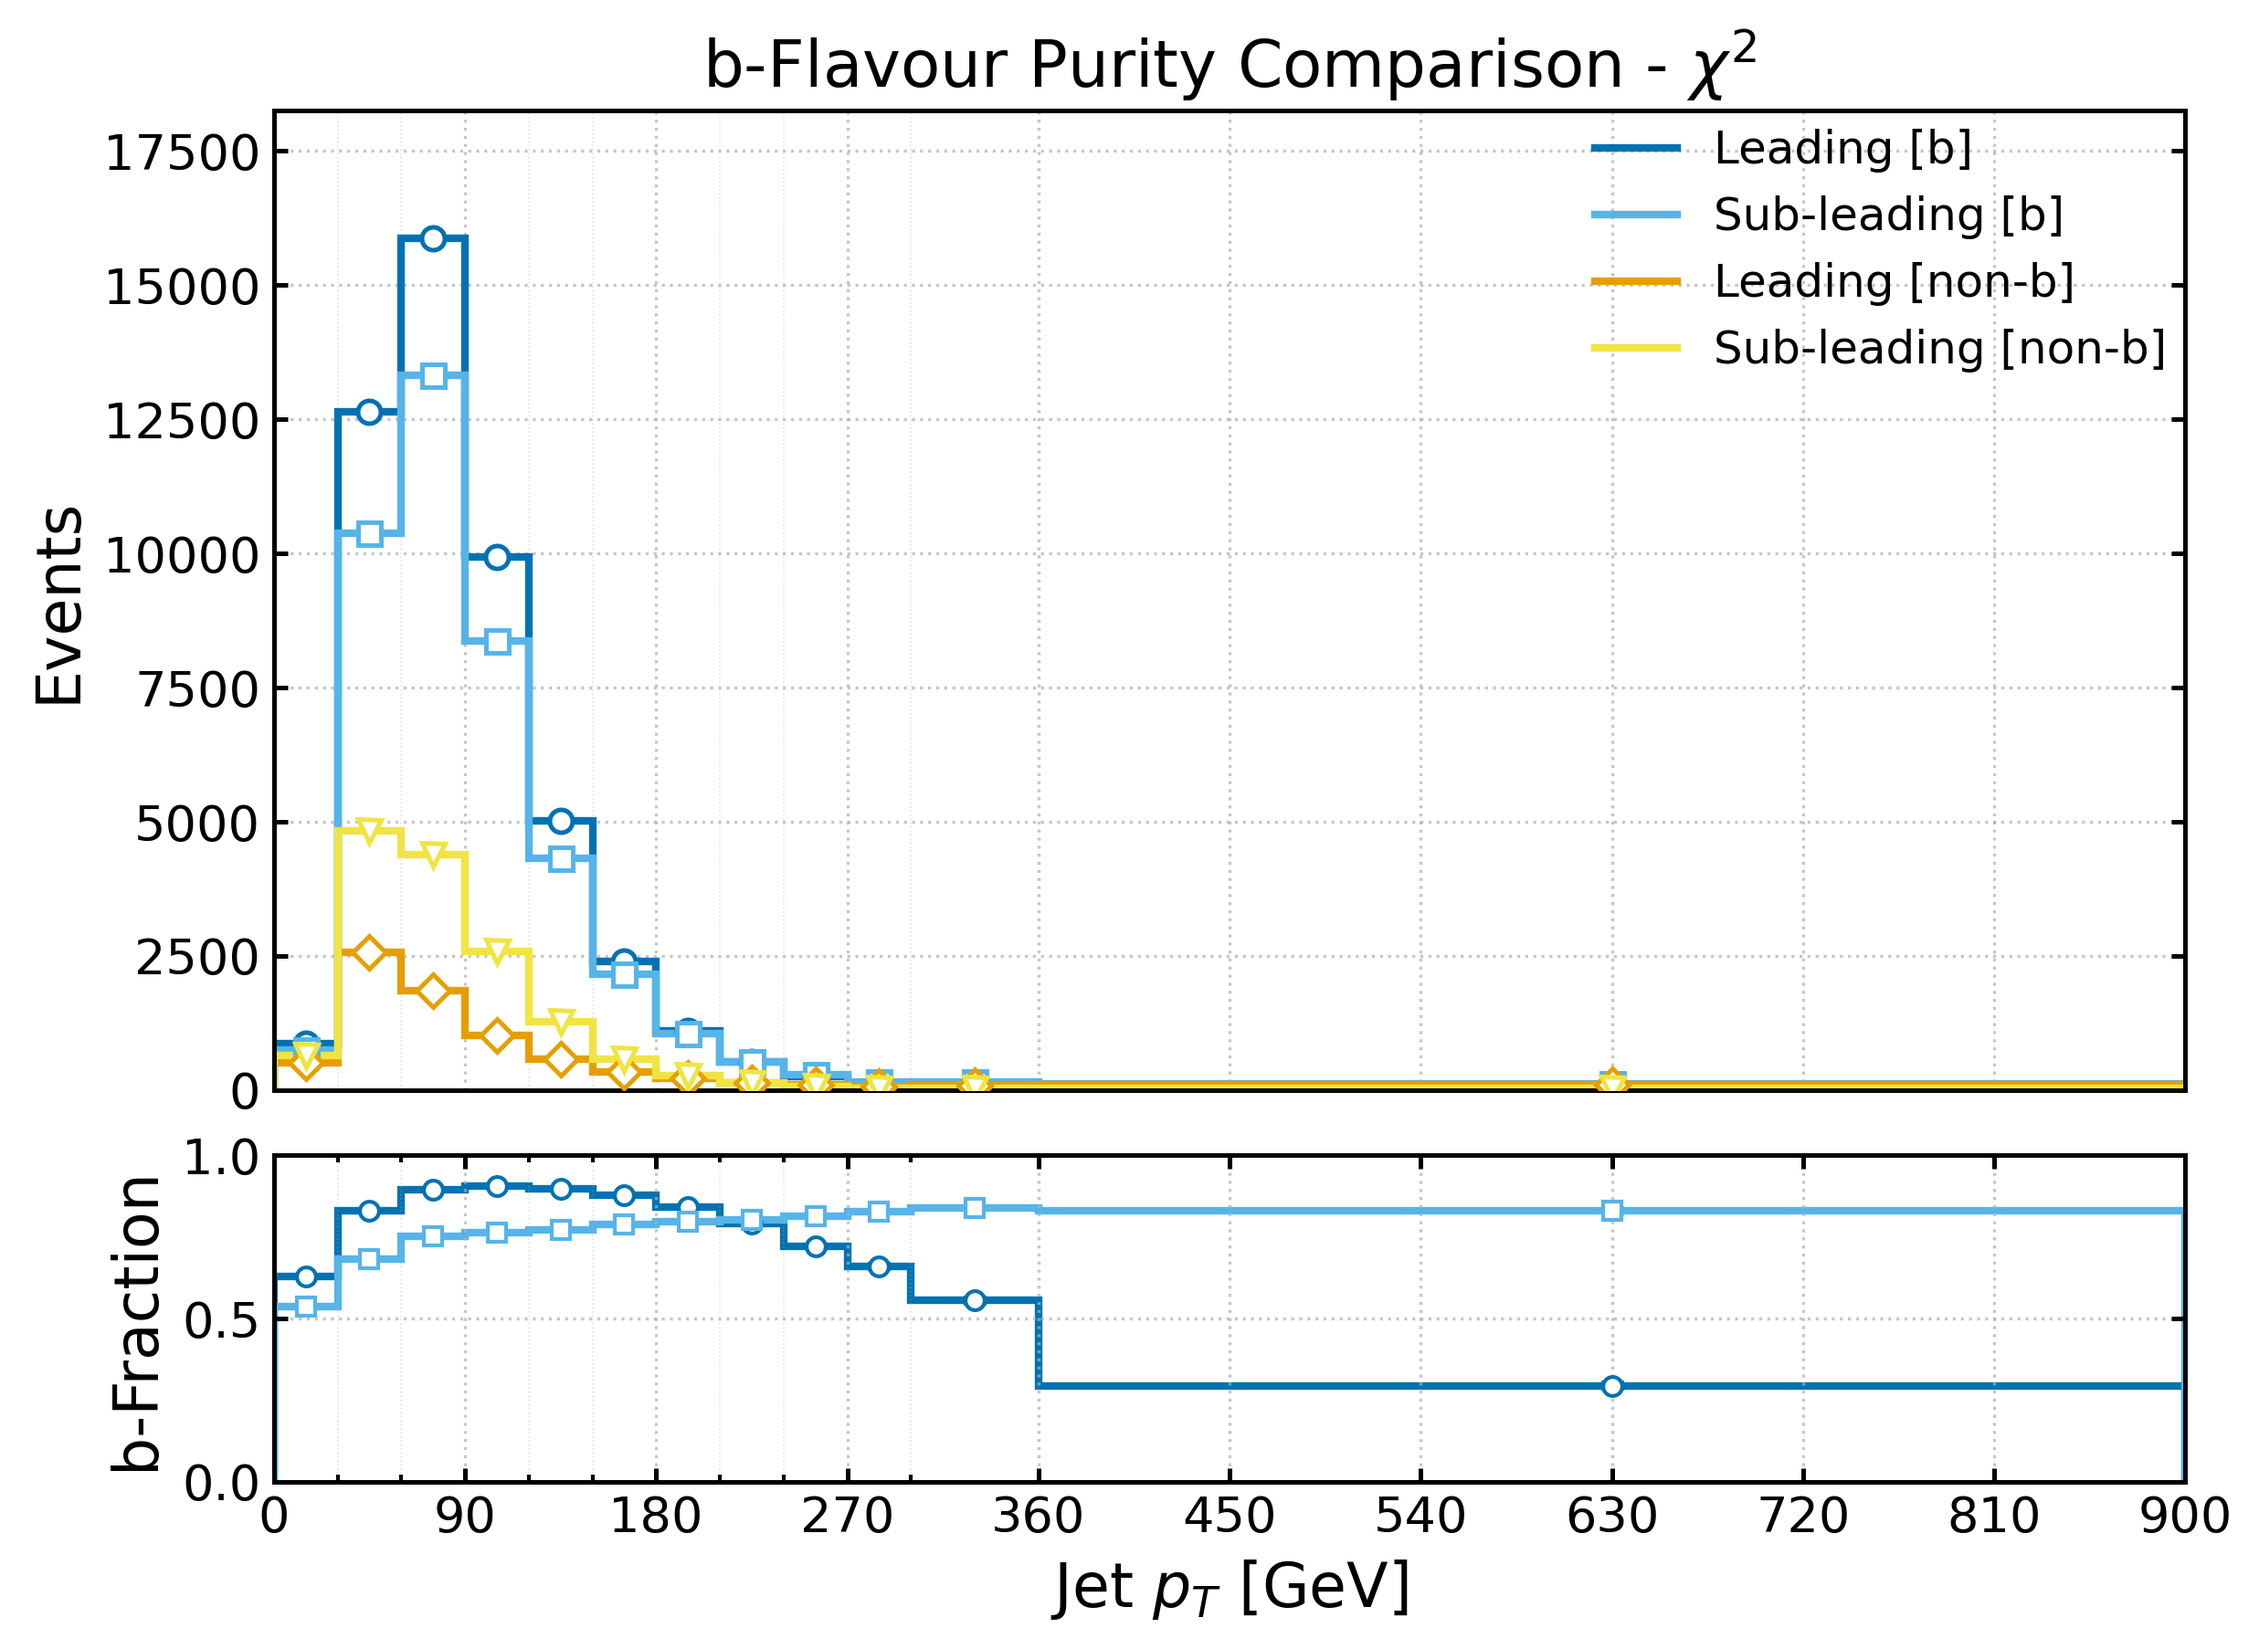
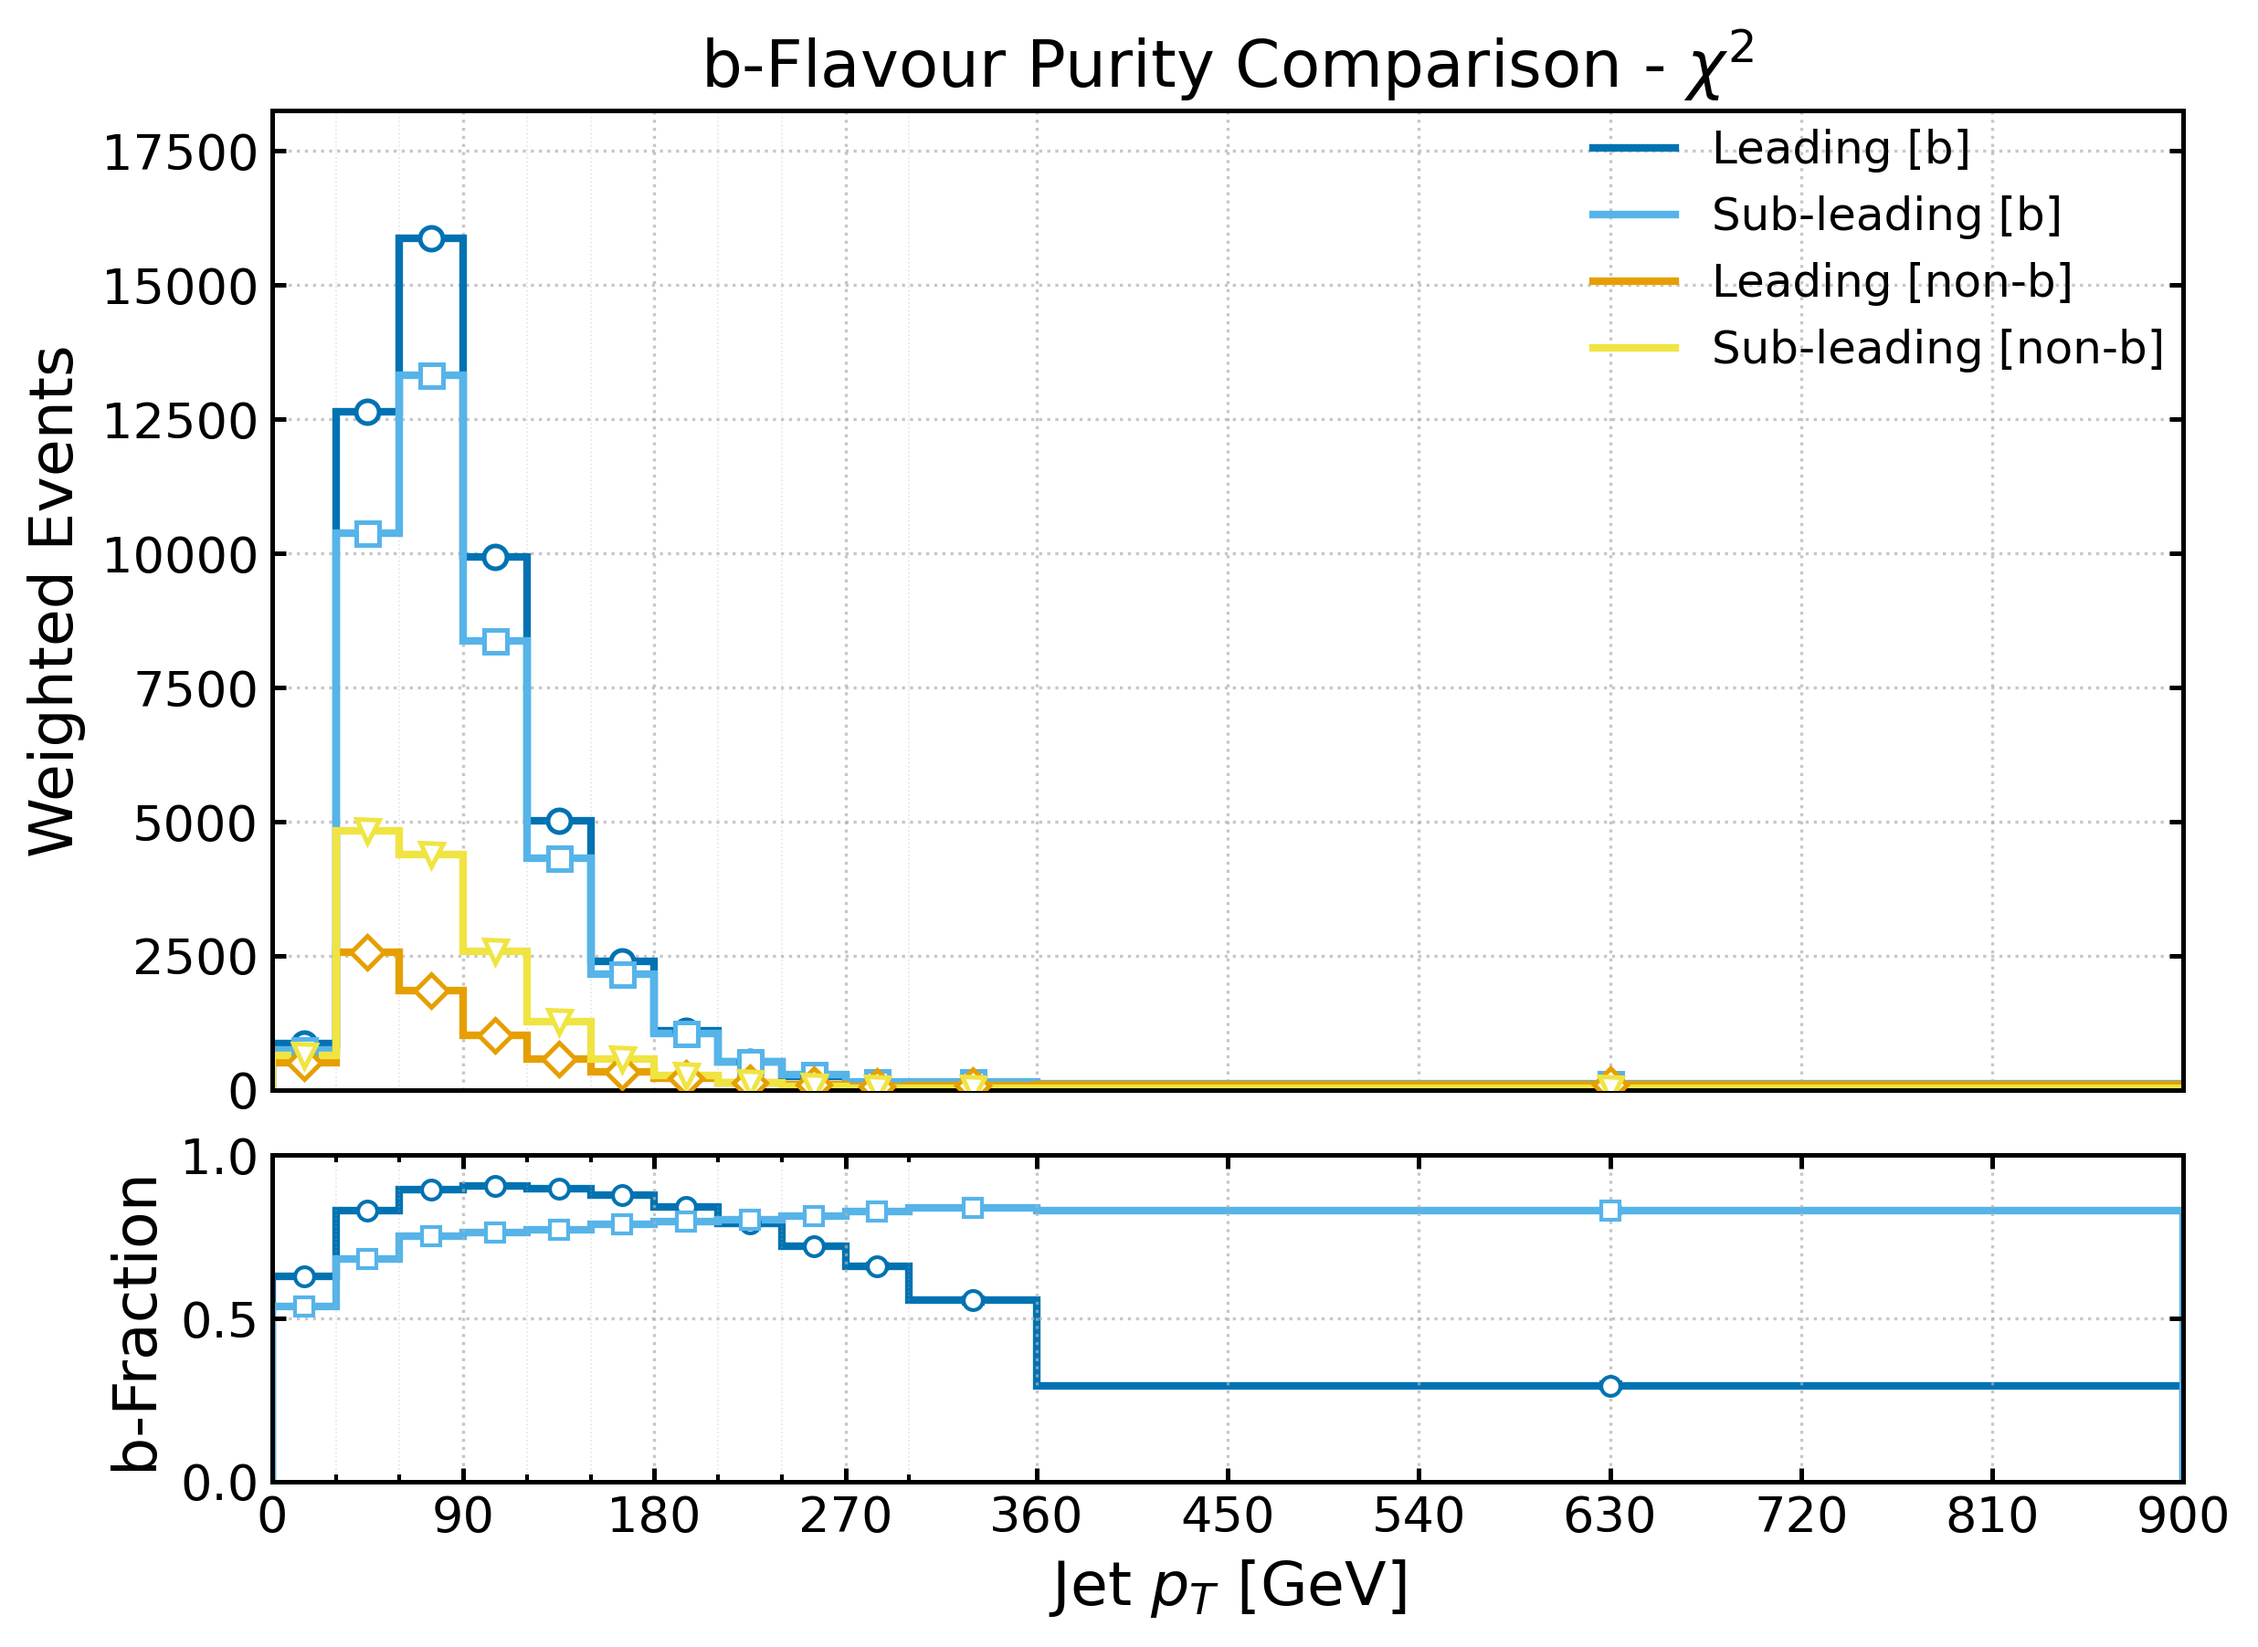
2.11.4 - Output format corrections

diff --git a/bTagging_SF_calc.py b/bTagging_SF_calc.py
@@ -1,0 +1,101 @@
+import numpy as np
+from scipy.optimize import minimize_scalar
+
+# Columns: SV centre, yield, error
+data_yield = np.array([
+    [-0.25,   32.000000,   5.656854],
+    [ 0.25,   26.000000,   5.099020],
+    [ 0.75,  243.000000,  15.588457],
+    [ 1.25,  936.000000,  30.594117],
+    [ 1.75, 2064.000000,  45.431267],
+    [ 2.25, 3056.000000,  55.281100],
+    [ 2.75, 3388.000000,  58.206529],
+    [ 3.25, 2898.000000,  53.833075],
+    [ 3.75, 2070.000000,  45.497253],
+    [ 4.25, 1139.000000,  33.749074],
+    [ 4.75,  560.000000,  23.664319],
+    [ 5.25,  236.000000,  15.362291],
+], dtype=float)
+
+b_yield = np.array([
+    [-0.25,   40.829327,   1.556309],
+    [ 0.25,   26.749590,   1.253481],
+    [ 0.75,  268.019135,   4.004860],
+    [ 1.25, 1010.403015,   7.744958],
+    [ 1.75, 2304.259277,  11.712639],
+    [ 2.25, 3504.570312,  14.448512],
+    [ 2.75, 3945.906494,  15.336808],
+    [ 3.25, 3418.974854,  14.287642],
+    [ 3.75, 2336.287598,  11.808280],
+    [ 4.25, 1326.139038,   8.893599],
+    [ 4.75,  626.579956,   6.126587],
+    [ 5.25,  257.413513,   3.932517],
+], dtype=float)
+
+nonb_yield = np.array([
+    [-0.25, 0.130102, 0.078837],
+    [ 0.25, 0.035520, 0.035520],
+    [ 0.75, 0.187201, 0.108833],
+    [ 1.25, 0.594767, 0.182868],
+    [ 1.75, 0.778982, 0.208000],
+    [ 2.25, 1.379906, 0.286233],
+    [ 2.75, 0.837302, 0.226112],
+    [ 3.25, 1.499193, 0.301050],
+    [ 3.75, 0.583836, 0.196469],
+    [ 4.25, 0.163026, 0.095476],
+    [ 4.75, 0.000000, 0.000000],
+    [ 5.25, 0.053373, 0.053373],
+], dtype=float)
+
+N_data = data_yield[:, 1]
+s_data = data_yield[:, 2]
+
+N_b = b_yield[:, 1]
+s_b = b_yield[:, 2]
+
+N_nonb = nonb_yield[:, 1]
+s_nonb = nonb_yield[:, 2]
+
+
+def chi2(sf):
+    model = sf * N_b + N_nonb
+    sigma2 = s_data**2 + (sf * s_b)**2 + s_nonb**2
+
+    return np.sum((N_data - model)**2 / sigma2)
+
+
+result = minimize_scalar(
+    chi2,
+    bounds=(0.0, 2.0),
+    method="bounded",
+)
+
+sf_best = result.x
+chi2_min = result.fun
+ndof = len(N_data) - 1
+
+print(f"SF = {sf_best:.6f}")
+print(f"chi2_min = {chi2_min:.6f}")
+print(f"ndof = {ndof}")
+print(f"chi2/ndof = {chi2_min / ndof:.6f}")
+
+# =================================================
+# Error analysis - statistical since SF not obtained from direct algebraic analysis
+# We want a high confidence 68.3 "standard"
+# https://scikit-hep.org/iminuit/reference.html?utm_source=chatgpt.com
+# =================================================
+
+from scipy.optimize import brentq
+
+target = chi2_min + 1.0
+
+def delta_chi2(sf):
+    return chi2(sf) - target
+
+sf_low = brentq(delta_chi2, 0.0, sf_best)
+sf_high = brentq(delta_chi2, sf_best, 2.0)
+
+sf_err_minus = sf_best - sf_low
+sf_err_plus = sf_high - sf_best
+
+print(f"SF = {sf_best:.6f} -{sf_err_minus:.6f} +{sf_err_plus:.6f}")

diff --git a/t1t2_compute_SV_analysis.py b/t1t2_compute_SV_analysis.py
@@ -240,14 +240,7 @@ for label, _ in pt_regions:
         top2_fraction_list.append((label, f, frac, err_frac))
         top2_yield_list.append((label, f, yield_val, err_yield))
 
-# -------------------------------------------------
-# Print results
-# -------------------------------------------------
-print("\n" + "=" * 110)
-print("NORMALISATION")
-print("=" * 110)
-print(f"norm = {norm:.12e}")
-print("=" * 110)
+
 
 print("\n" + "=" * 110)
 print("Top1 (chi2 index 0): weighted event FRACTIONS")

diff --git a/LnSL_FlavourCompFrac.py b/LnSL_FlavourCompFrac.py
@@ -244,11 +244,6 @@ for label, _ in pt_regions:
 # -------------------------------------------------
 # Print results
 # -------------------------------------------------
-print("\n" + "=" * 110)
-print("NORMALISATION")
-print("=" * 110)
-print(f"norm = {norm:.12e}")
-print("=" * 110)
 
 print("\n" + "=" * 110)
 print("Leading jet: weighted event FRACTIONS")

diff --git a/flavour_fractionyield_plotting.py b/flavour_fractionyield_plotting.py
@@ -239,7 +239,7 @@ plot_with_errorbars(
     "nonb-subleading", "Sub-leading [non-b]"
 )
 
-ax.set_ylabel("Events")
+ax.set_ylabel("Weighted Events")
 ax.set_title(r"b-Flavour Purity Comparison - $\chi^2$")
 
 ax.set_xlim(bin_edges[0], bin_edges[-1])
